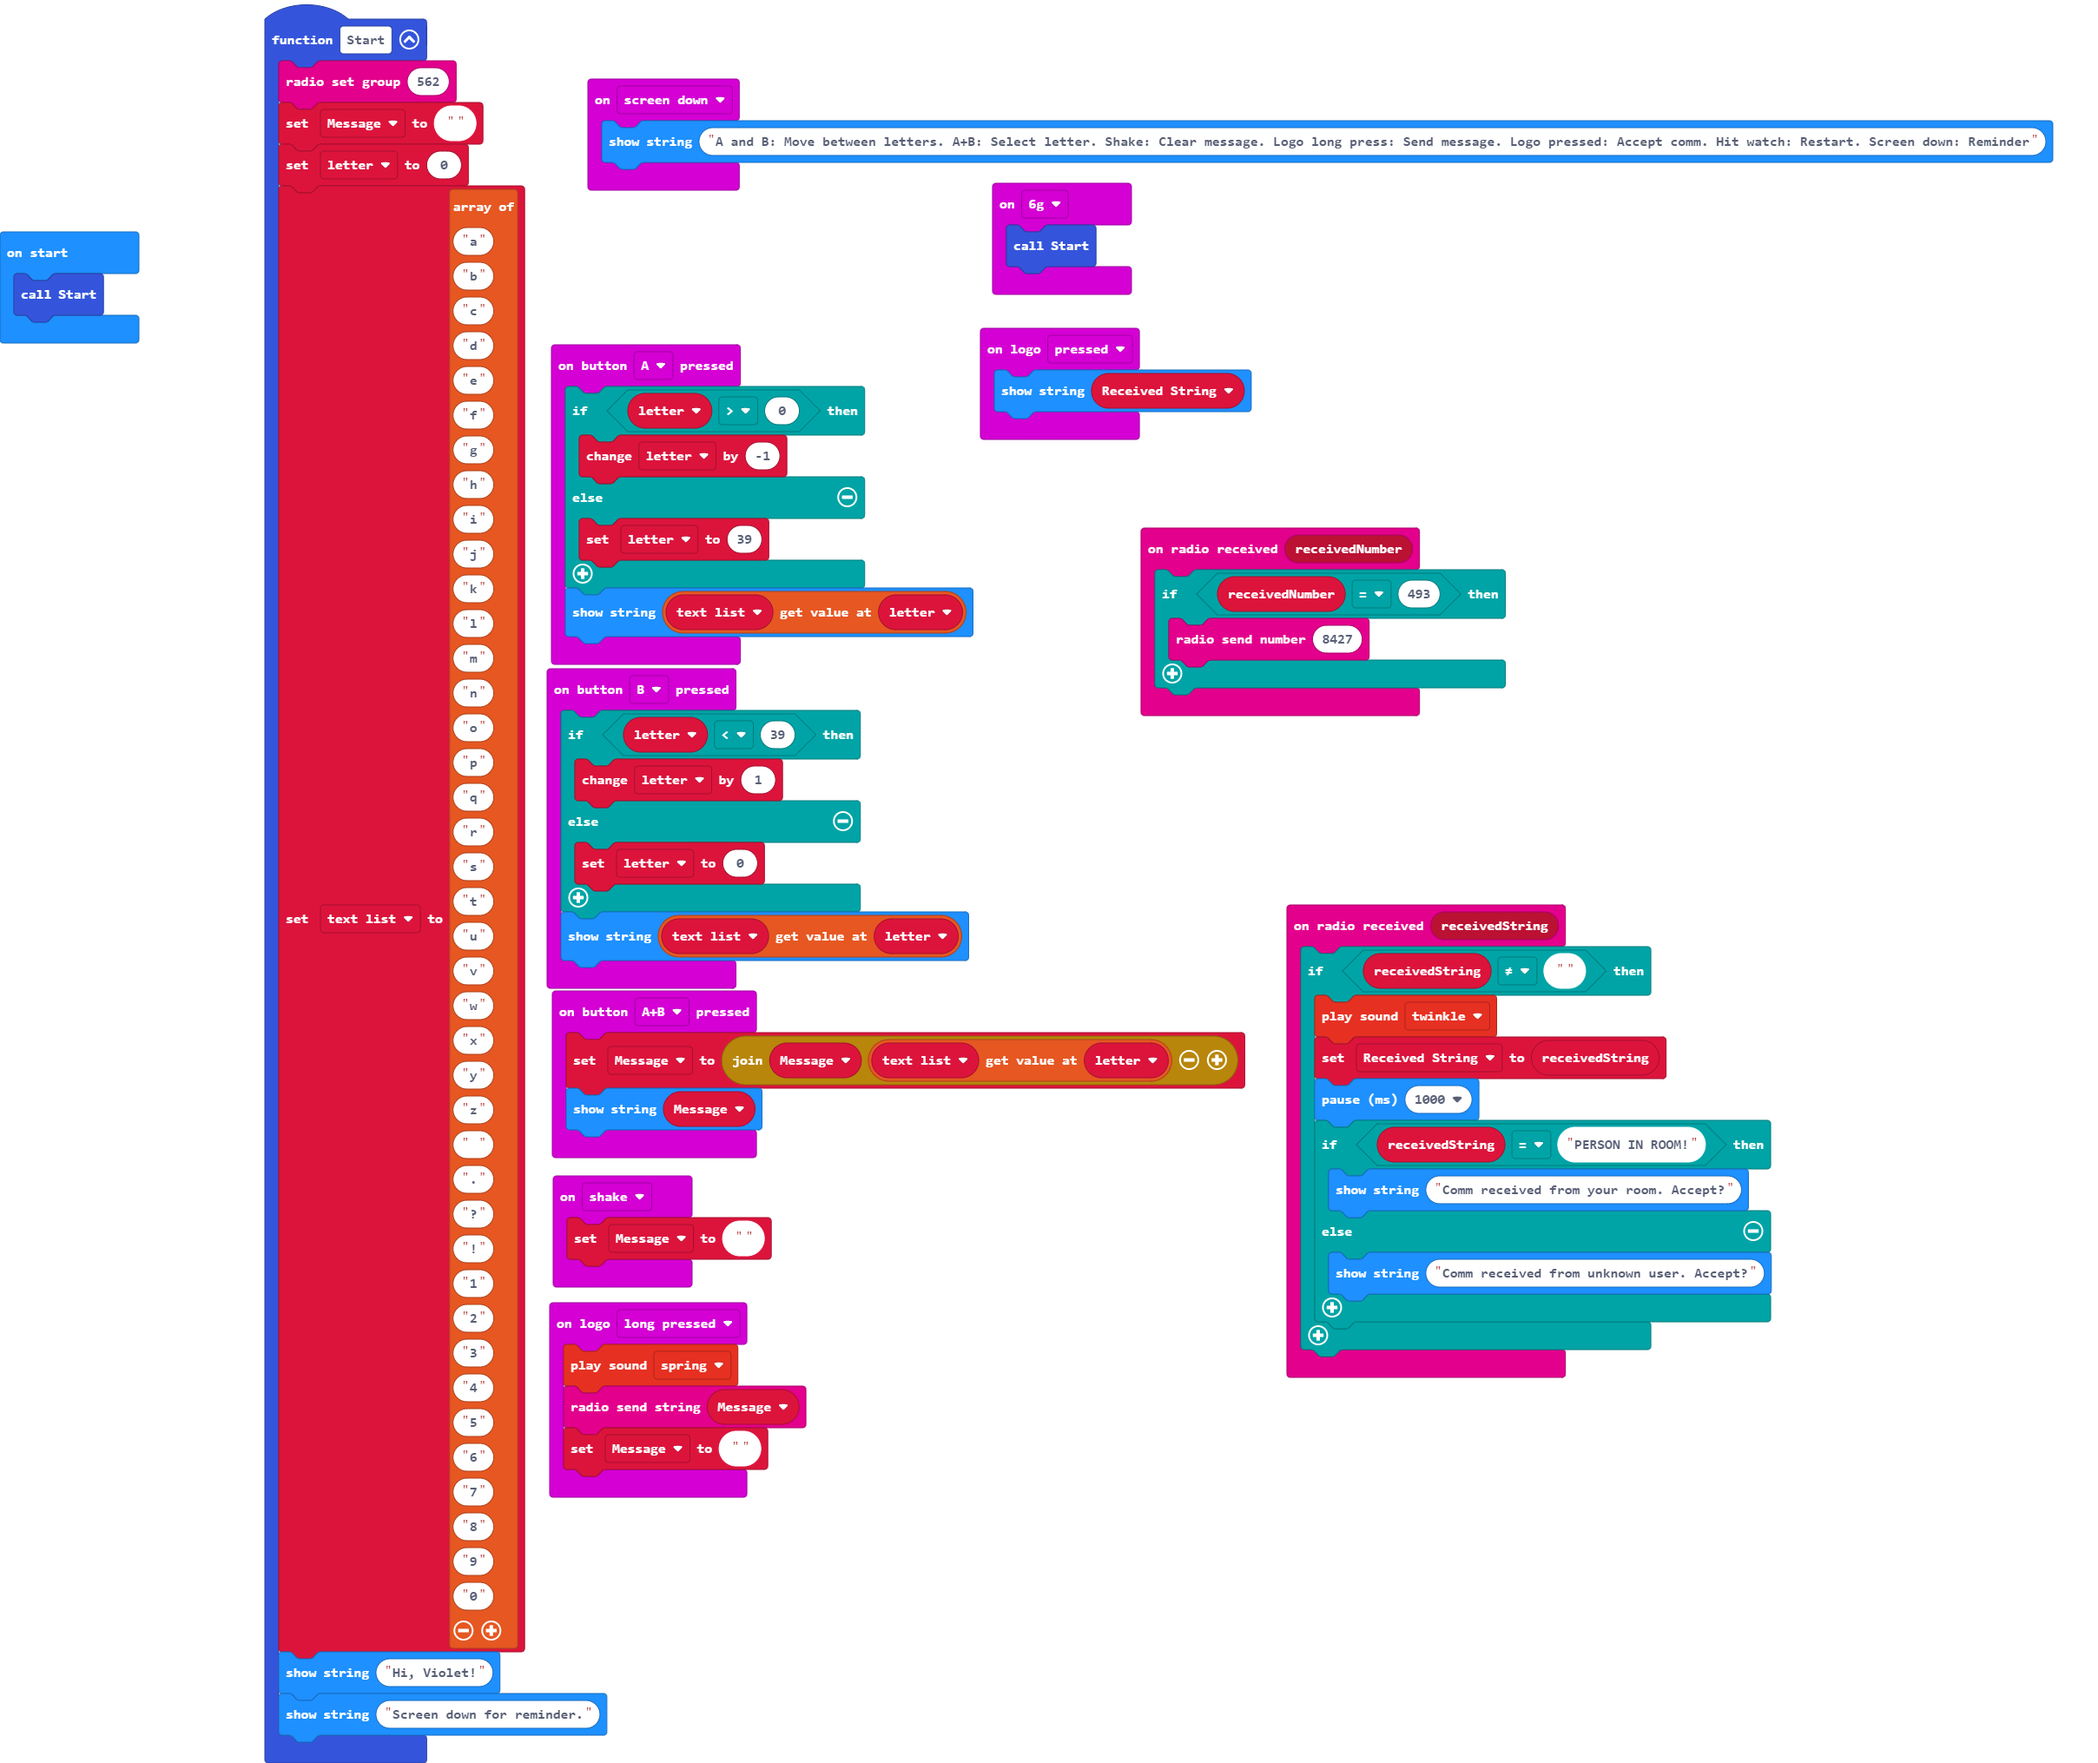
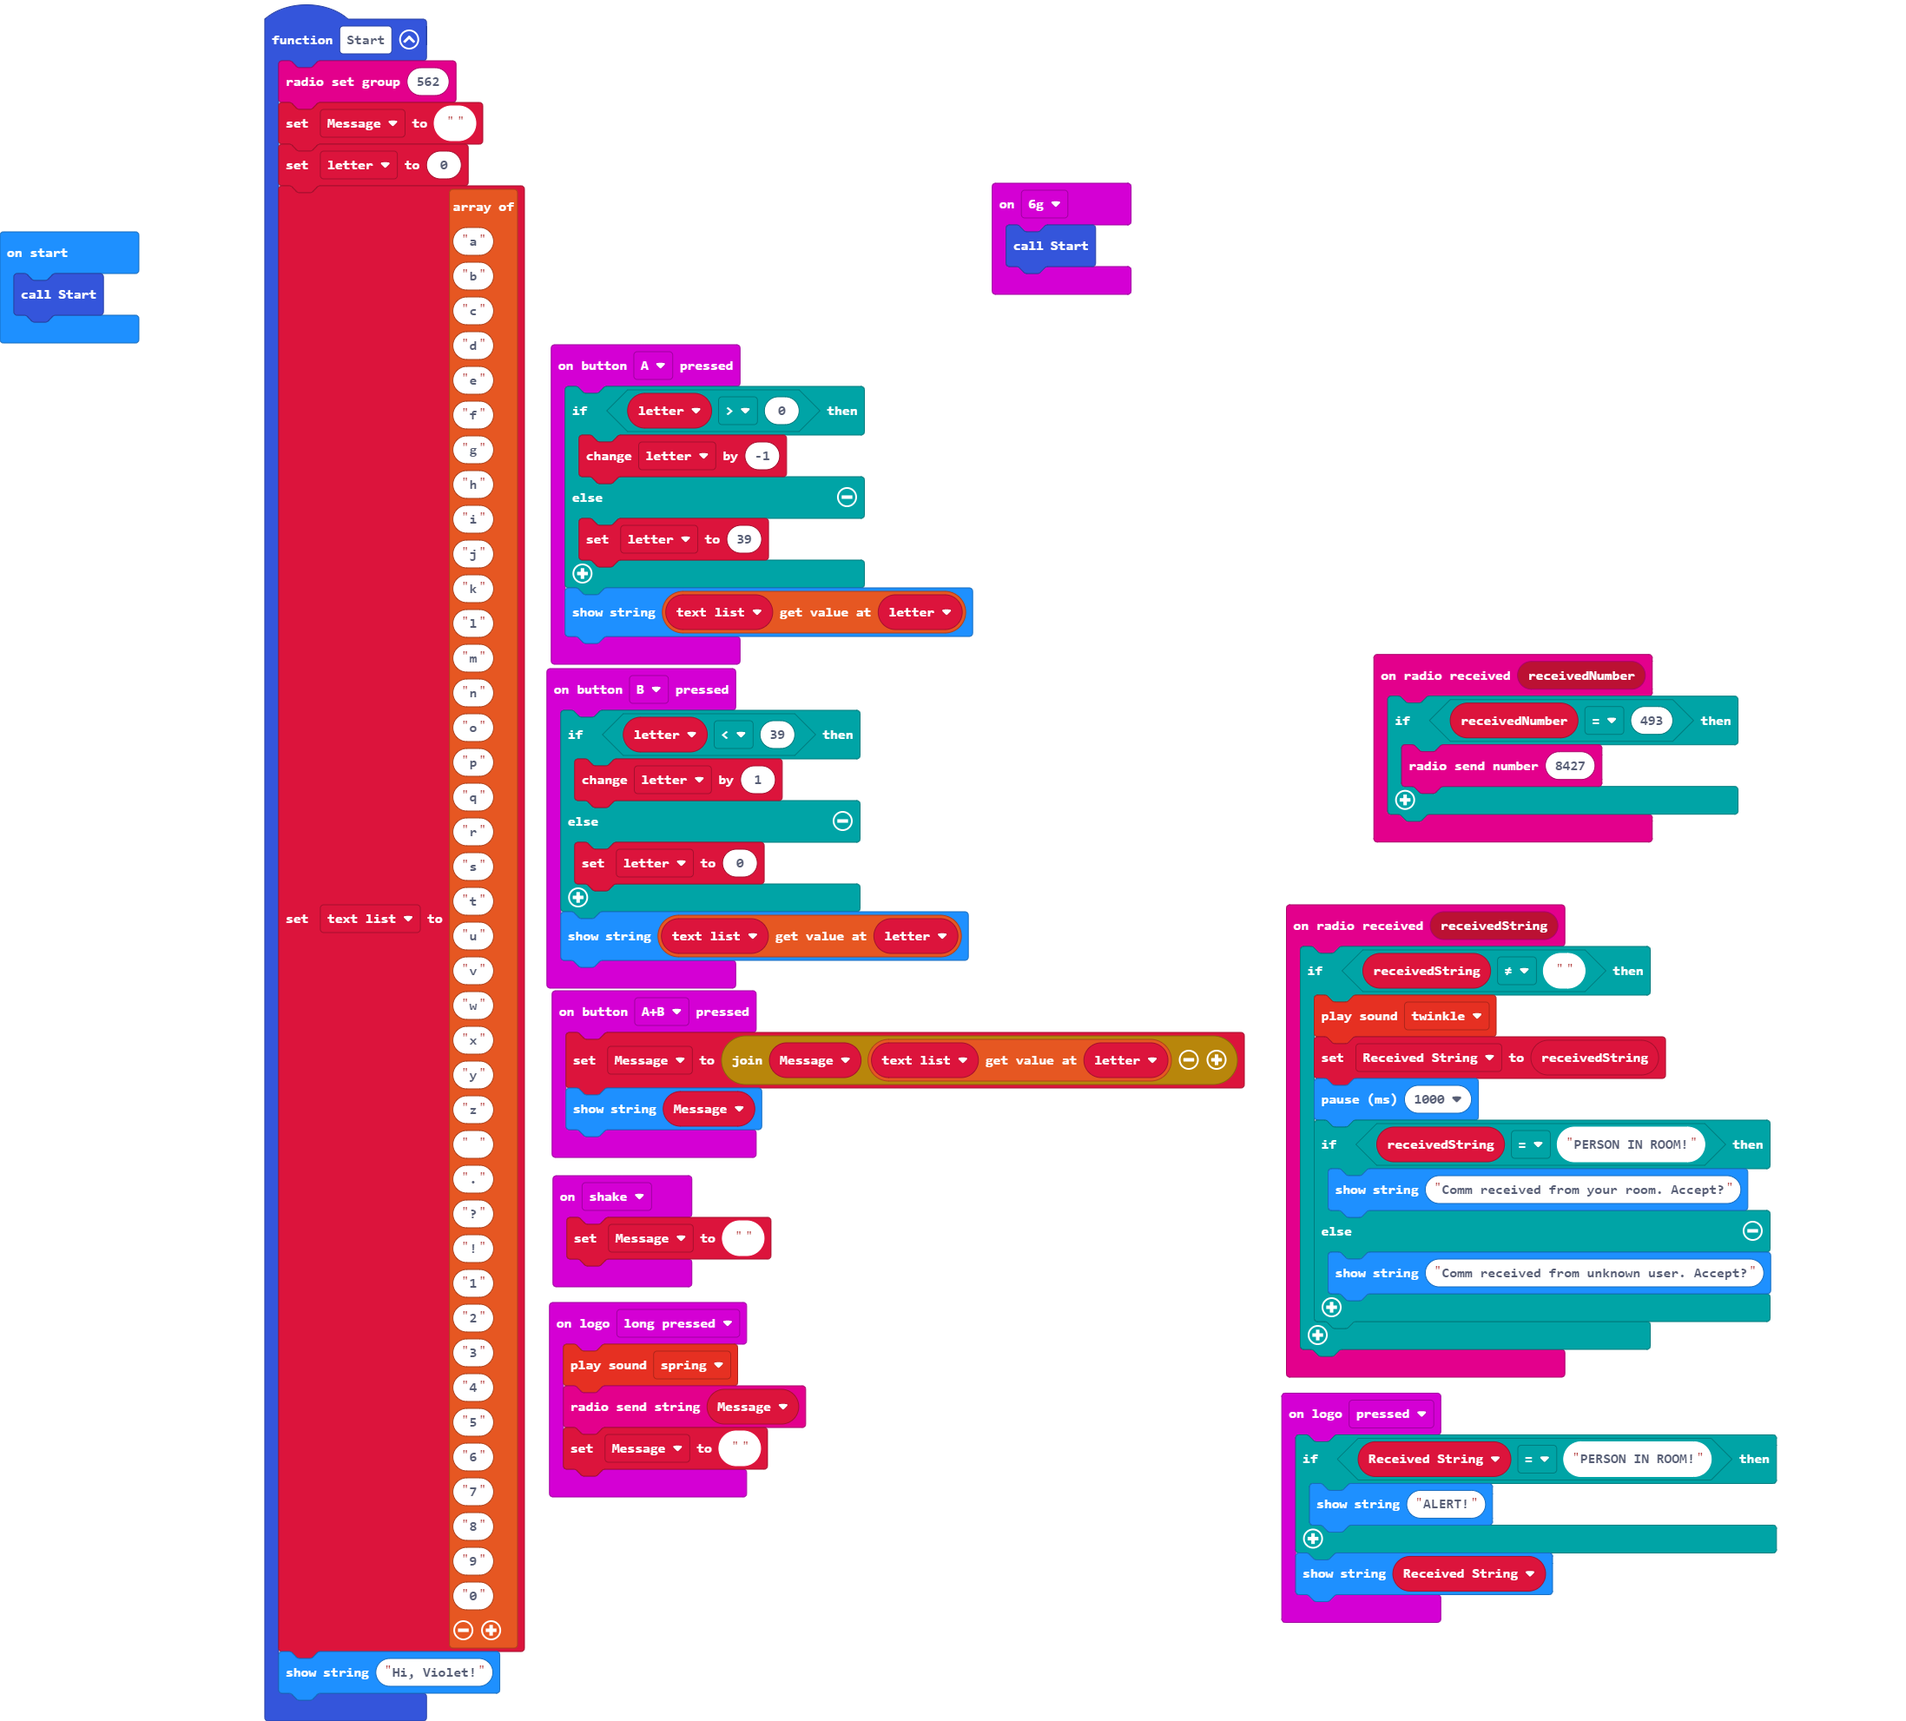
Update pxt.json, main.blocks, main.ts

diff --git a/main.ts b/main.ts
@@ -14,7 +14,6 @@ function Start () {
     letter = 0
     text_list = ["a", "b", "c", "d", "e", "f", "g", "h", "i", "j", "k", "l", "m", "n", "o", "p", "q", "r", "s", "t", "u", "v", "w", "x", "y", "z", " ", ".", "?", "!", "1", "2", "3", "4", "5", "6", "7", "8", "9", "0"]
     basic.showString("Hi, Violet!")
-    basic.showString("Screen down for reminder.")
 }
 input.onButtonPressed(Button.A, function () {
     if (letter > 0) {
@@ -26,9 +25,6 @@ input.onButtonPressed(Button.A, function () {
 })
 input.onGesture(Gesture.SixG, function () {
     Start()
-})
-input.onGesture(Gesture.ScreenDown, function () {
-    basic.showString("A and B: Move between letters. A+B: Select letter. Shake: Clear message. Logo long press: Send message. Logo pressed: Accept comm. Hit watch: Restart. Screen down: Reminder")
 })
 input.onButtonPressed(Button.AB, function () {
     Message = "" + Message + text_list[letter]
@@ -58,6 +54,9 @@ input.onGesture(Gesture.Shake, function () {
     Message = ""
 })
 input.onLogoEvent(TouchButtonEvent.Pressed, function () {
+    if (Received_String == "PERSON IN ROOM!") {
+        basic.showString("ALERT!")
+    }
     basic.showString(Received_String)
 })
 let Received_String = ""
